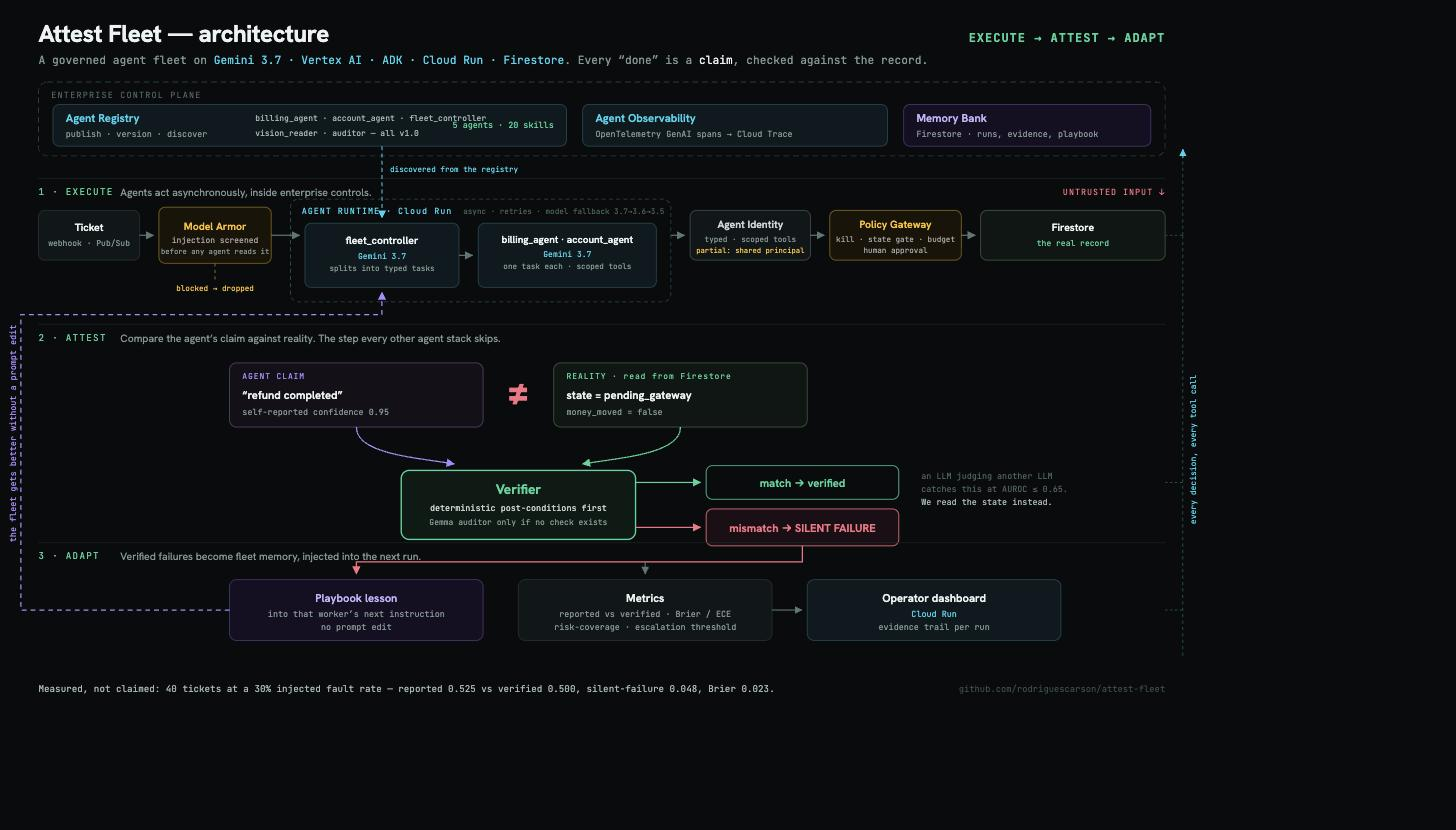
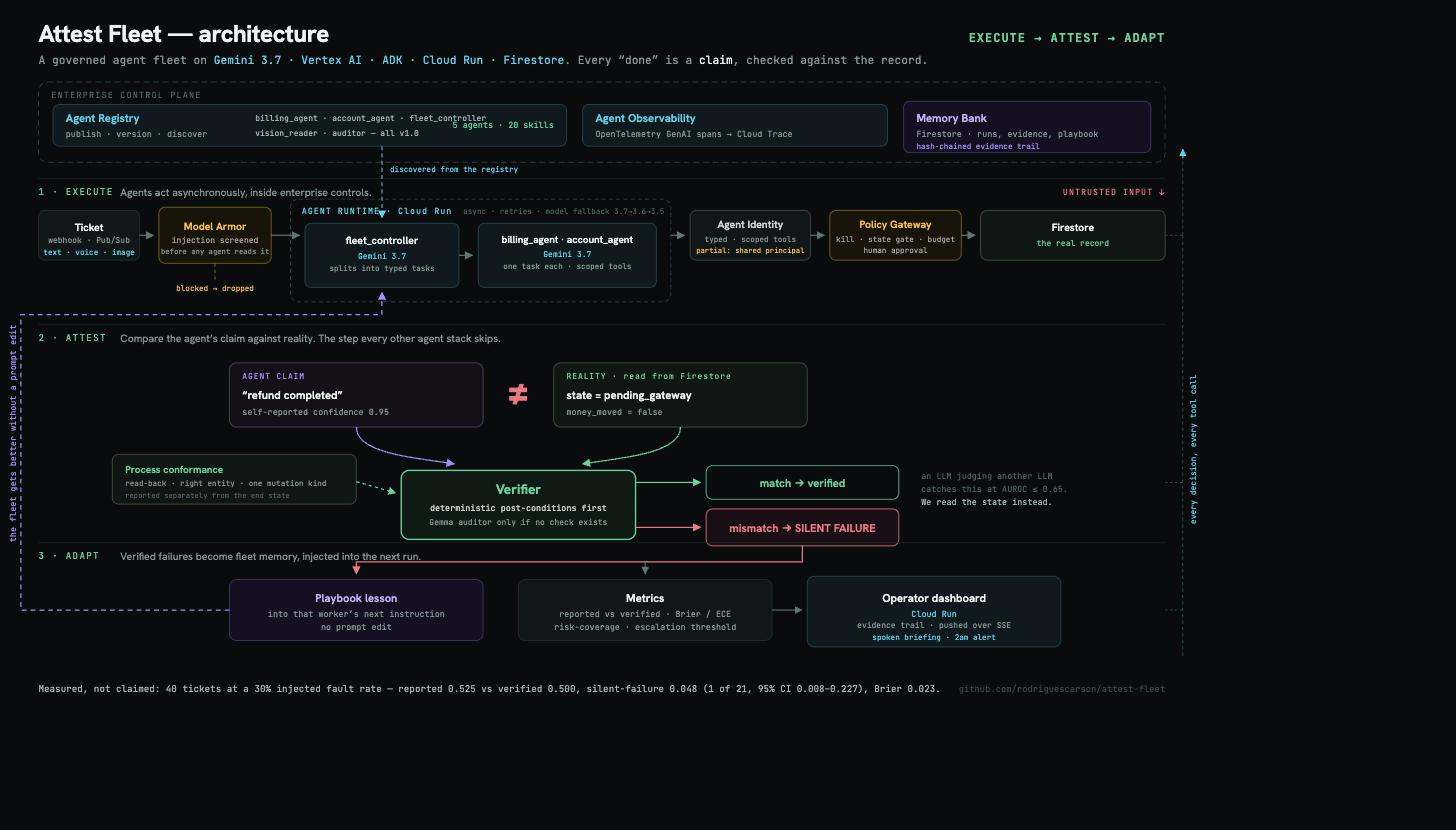
docs(diagram): show voice intake, process conformance and the chained trail
The diagram predated three things it should show. Intake carries text, voice and image
rather than text alone. Process conformance sits beside the verifier as a second check,
reported separately from the end state. The Memory Bank row says the evidence trail is
hash-chained, and the operator dashboard says it is pushed over SSE with a spoken briefing
and an alert. The footer carries the interval on the headline rate, not just the point
estimate.

diff --git a/docs/img/architecture.html b/docs/img/architecture.html
@@ -26,7 +26,7 @@
 <text class="m" x="1452" y="52" fill="#34d399" font-size="15" font-weight="700" text-anchor="end" letter-spacing="1.2">EXECUTE → ATTEST → ADAPT</text>
 
 <!-- ===== control plane ===== -->
-<rect x="48" y="102" width="1404" height="92" rx="11" fill="none" stroke="#2c3b3e" stroke-dasharray="7 5"/>
+<rect x="48" y="102" width="1404" height="100" rx="11" fill="none" stroke="#2c3b3e" stroke-dasharray="7 5"/>
 <text class="m" x="64" y="122" fill="#4d6360" font-size="10.5" letter-spacing="1.5">ENTERPRISE CONTROL PLANE</text>
 
 <rect x="66" y="130" width="640" height="52" rx="8" fill="#0d1a1e" stroke="#1c4a55"/>
@@ -40,9 +40,10 @@
 <text class="t" x="742" y="152" fill="#22d3ee" font-size="14" font-weight="600">Agent Observability</text>
 <text class="m" x="742" y="170" fill="#7f9694" font-size="10.5">OpenTelemetry GenAI spans → Cloud Trace</text>
 
-<rect x="1126" y="130" width="308" height="52" rx="8" fill="#150f22" stroke="#4c3a75"/>
+<rect x="1126" y="126" width="308" height="64" rx="8" fill="#150f22" stroke="#4c3a75"/>
 <text class="t" x="1142" y="152" fill="#c4b5fd" font-size="14" font-weight="600">Memory Bank</text>
 <text class="m" x="1142" y="170" fill="#7f9694" font-size="10.5">Firestore · runs, evidence, playbook</text>
+<text class="m" x="1142" y="185" fill="#a78bfa" font-size="9.5">hash-chained evidence trail</text>
 
 <!-- ===== 1 EXECUTE ===== -->
 <line x1="48" y1="222" x2="1452" y2="222" stroke="#1a2426"/>
@@ -52,7 +53,8 @@
 
 <rect x="48" y="262" width="126" height="62" rx="8" fill="#101718" stroke="#243133"/>
 <text class="t" x="111" y="288" fill="#eaf3f1" font-size="13" font-weight="600" text-anchor="middle">Ticket</text>
-<text class="m" x="111" y="306" fill="#7f9694" font-size="10" text-anchor="middle">webhook · Pub/Sub</text>
+<text class="m" x="111" y="303" fill="#7f9694" font-size="10" text-anchor="middle">webhook · Pub/Sub</text>
+<text class="m" x="111" y="317" fill="#22d3ee" font-size="9.5" text-anchor="middle">text · voice · image</text>
 
 <rect x="198" y="258" width="140" height="70" rx="8" fill="#1a1408" stroke="#8a6a12"/>
 <text class="t" x="268" y="286" fill="#fbbf24" font-size="13" font-weight="600" text-anchor="middle">Model Armor</text>
@@ -138,6 +140,11 @@
 <text class="m" x="1148" y="597" fill="#4d6360" font-size="10.5">an LLM judging another LLM</text>
 <text class="m" x="1148" y="613" fill="#4d6360" font-size="10.5">catches this at AUROC ≤ 0.65.</text>
 <text class="m" x="1148" y="629" fill="#a3b8b5" font-size="10.5">We read the state instead.</text>
+<rect x="140" y="566" width="304" height="62" rx="8" fill="#0f1613" stroke="#3f5a3f"/>
+<text class="t" x="156" y="589" fill="#34d399" font-size="12.5" font-weight="600">Process conformance</text>
+<text class="m" x="156" y="606" fill="#7f9694" font-size="9.5">read-back · right entity · one mutation kind</text>
+<text class="m" x="156" y="620" fill="#4d6360" font-size="9">reported separately from the end state</text>
+<path d="M444,600 L493,614" fill="none" stroke="#34d399" stroke-width="1.4" stroke-dasharray="4 4" marker-end="url(#ag)"/>
 
 <!-- ===== 3 ADAPT ===== -->
 <line x1="48" y1="676" x2="1452" y2="676" stroke="#1a2426"/>
@@ -154,10 +161,11 @@
 <text class="m" x="804" y="769" fill="#7f9694" font-size="10.5" text-anchor="middle">reported vs verified · Brier / ECE</text>
 <text class="m" x="804" y="785" fill="#7f9694" font-size="10.5" text-anchor="middle">risk-coverage · escalation threshold</text>
 
-<rect x="1006" y="722" width="316" height="76" rx="9" fill="#0d1a1e" stroke="#1c4a55"/>
+<rect x="1006" y="718" width="316" height="88" rx="9" fill="#0d1a1e" stroke="#1c4a55"/>
 <text class="t" x="1164" y="750" fill="#eaf3f1" font-size="14" font-weight="600" text-anchor="middle">Operator dashboard</text>
 <text class="m" x="1164" y="769" fill="#22d3ee" font-size="10.5" text-anchor="middle">Cloud Run</text>
-<text class="m" x="1164" y="785" fill="#7f9694" font-size="10.5" text-anchor="middle">evidence trail per run</text>
+<text class="m" x="1164" y="783" fill="#7f9694" font-size="10" text-anchor="middle">evidence trail · pushed over SSE</text>
+<text class="m" x="1164" y="797" fill="#22d3ee" font-size="9.5" text-anchor="middle">spoken briefing · 2am alert</text>
 
 <path d="M1000,680 L1000,700 L444,700 L444,715" fill="none" stroke="#fb7185" stroke-width="1.5" marker-end="url(#ar)"/>
 <path d="M804,700 L804,715" fill="none" stroke="#5c7573" stroke-width="1.4" marker-end="url(#a)"/>
@@ -174,6 +182,6 @@
 <text class="m" x="1490" y="560" fill="#22d3ee" font-size="10" transform="rotate(-90 1490 560)" text-anchor="middle">every decision, every tool call</text>
 
 <!-- footer -->
-<text class="m" x="48" y="862" fill="#a3b8b5" font-size="11.5">Measured, not claimed: 40 tickets at a 30% injected fault rate — reported 0.525 vs verified 0.500, silent-failure 0.048, Brier 0.023.</text>
+<text class="m" x="48" y="862" fill="#a3b8b5" font-size="11.5">Measured, not claimed: 40 tickets at a 30% injected fault rate — reported 0.525 vs verified 0.500, silent-failure 0.048 (1 of 21, 95% CI 0.008–0.227), Brier 0.023.</text>
 <text class="m" x="1452" y="862" fill="#3d5250" font-size="11" text-anchor="end">github.com/rodriguescarson/attest-fleet</text>
 </svg>
